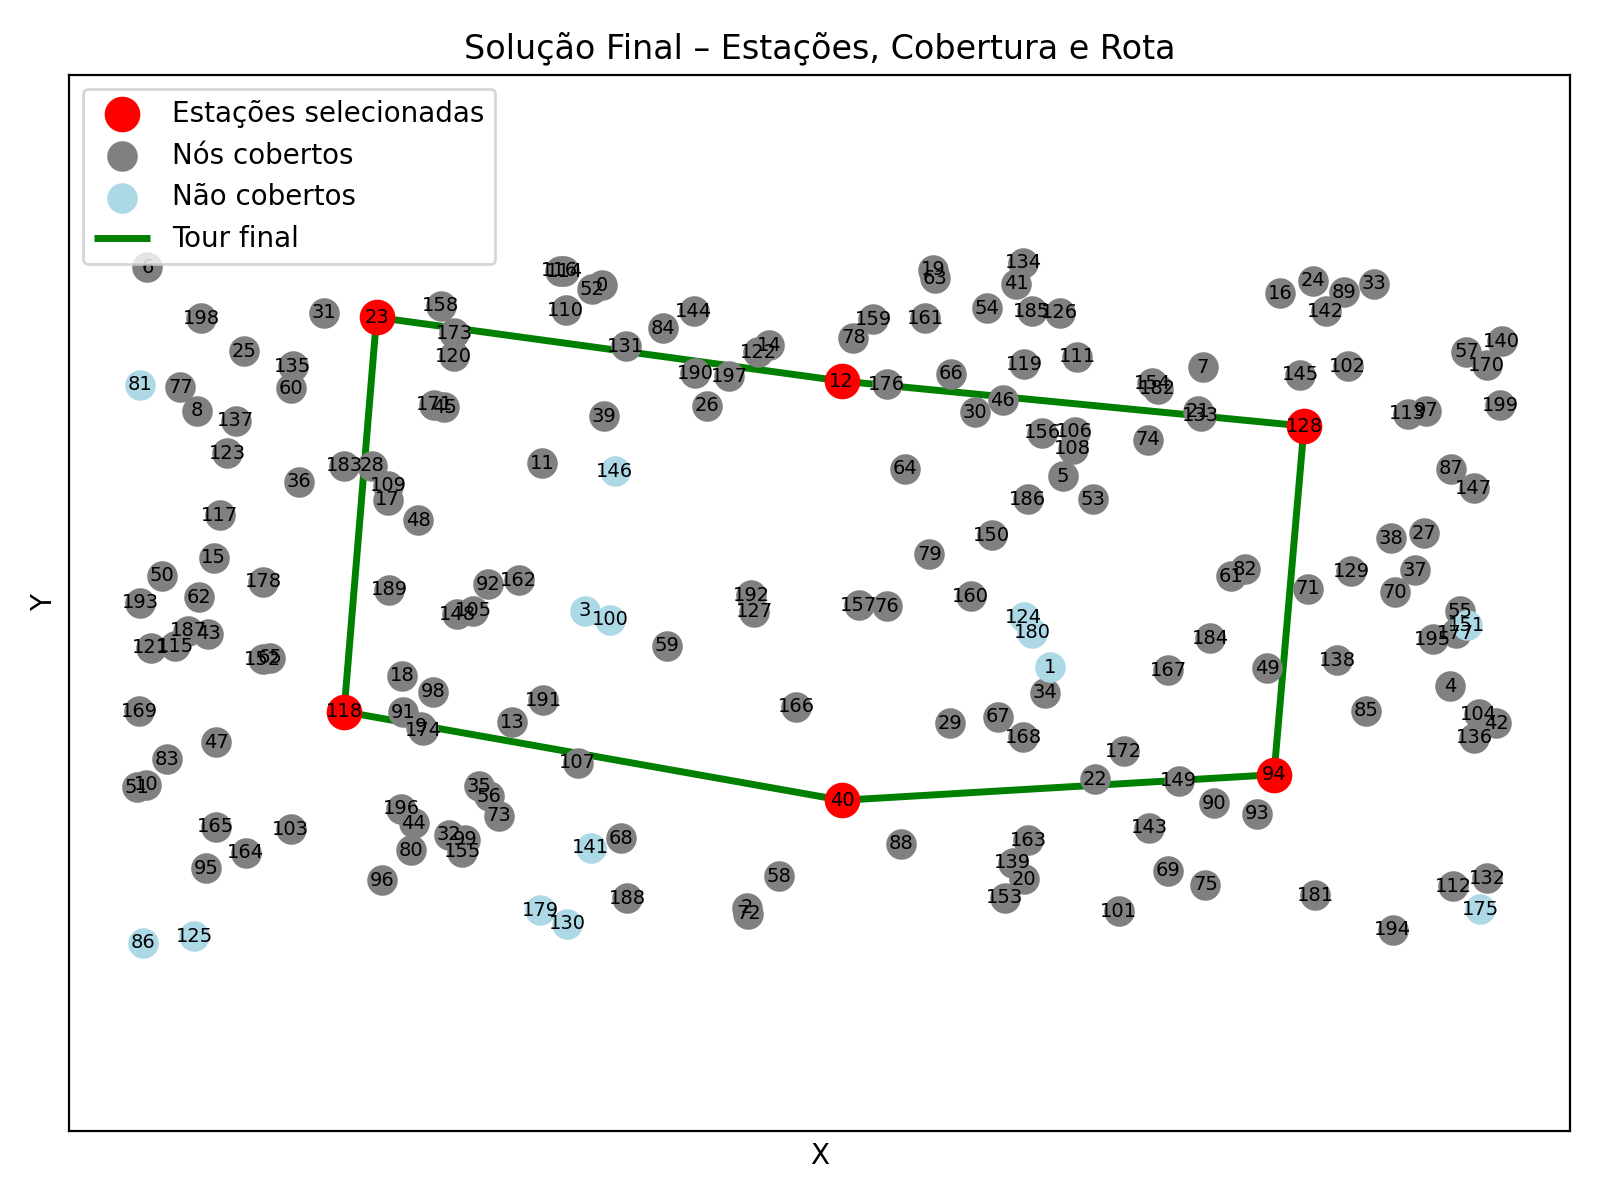
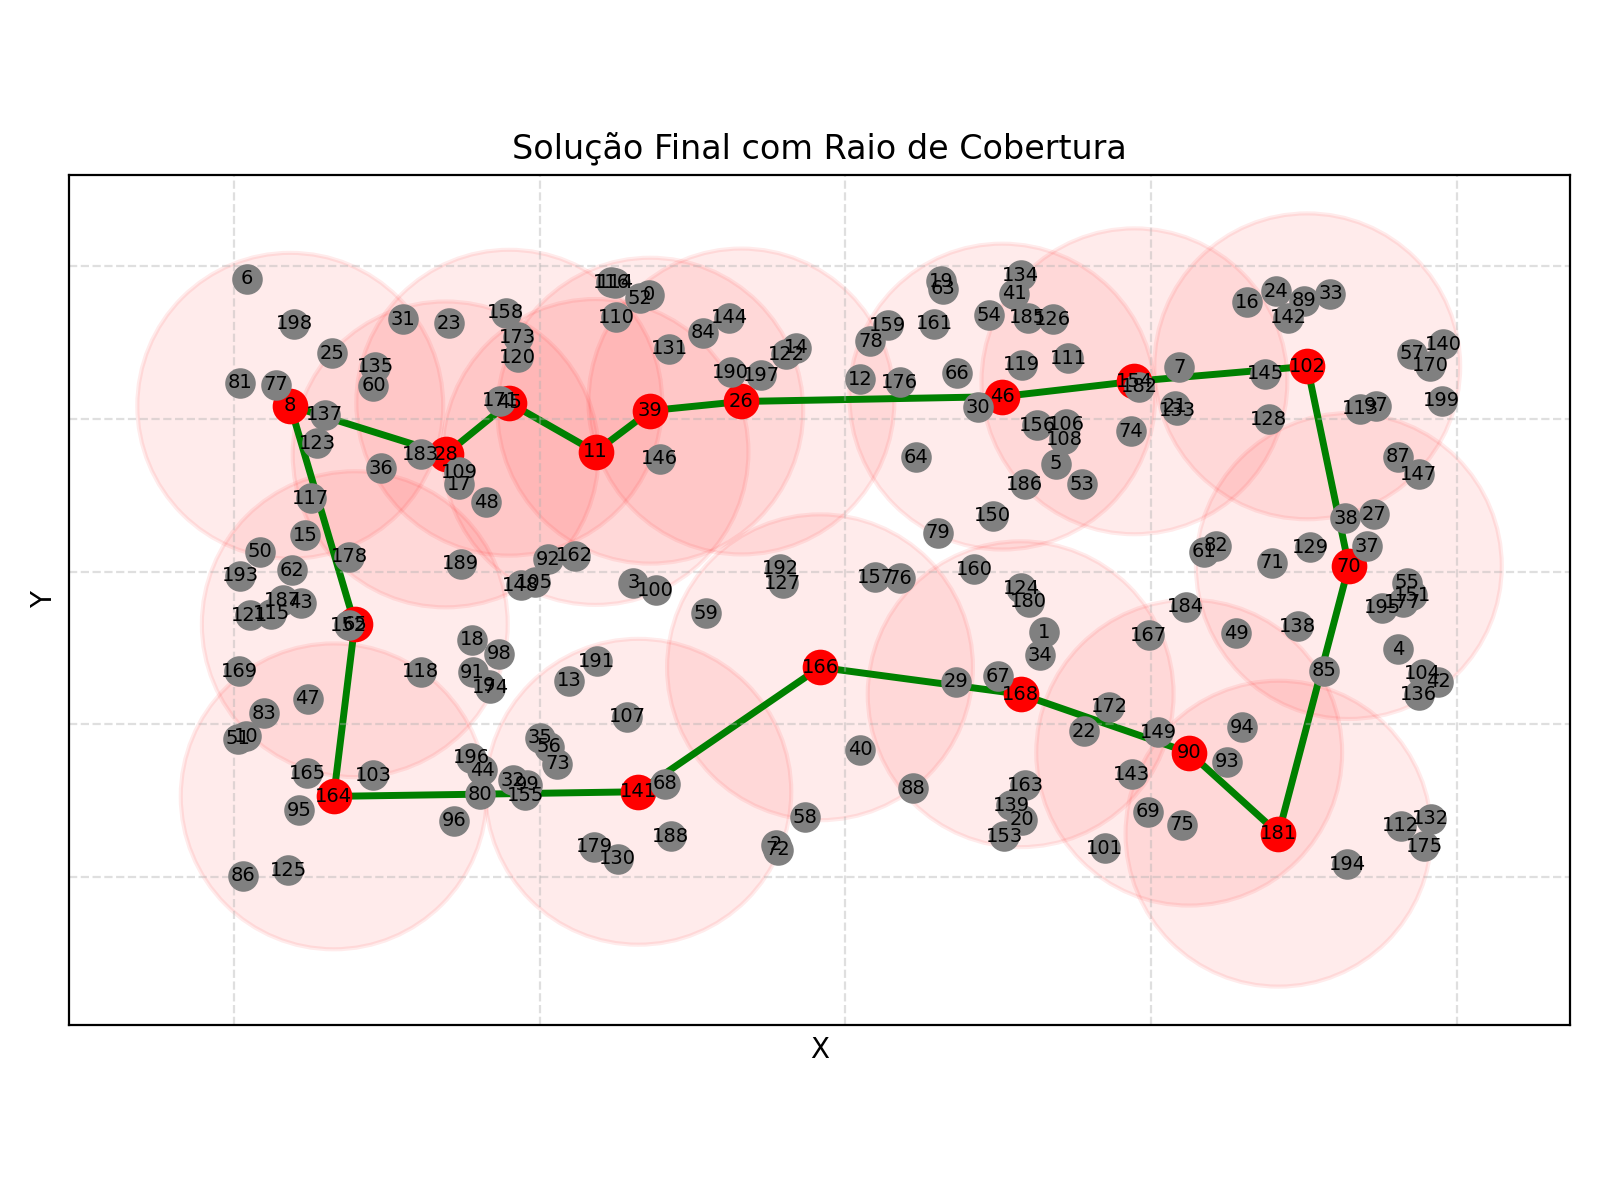
sainda grafica com raios

diff --git a/main.py b/main.py
@@ -3,6 +3,7 @@ import networkx as nx
 import matplotlib.pyplot as plt
 import os
 import itertools
+from matplotlib.patches import Circle
 os.makedirs("frames", exist_ok=True)
 
 def draw_iteration(graph, picked, covered, tour_edges, iteration):
@@ -217,38 +218,73 @@ def tsp_nearest_insertion_optimized(graph, nodes):
 
 # ---------- construção inicial -----------------------------------------
 def initialize_solution(graph, n, p, radius):
-    covered, solution = set(), []
+    covered = set()
+    solution = []
+
+    print("\n=== INICIALIZAÇÃO GULOSA ===")
+
     for it in range(p):
-        best_node, best_cov = None, 0
+        t0 = time.time()
+
+        best_node = None
+        best_gain = -1
+
         for v in range(n):
             if v in solution:
                 continue
-            cov = {w for w in graph.neighbors(v)
-                   if graph[v][w]["weight"] <= radius and w not in covered}
-            if len(cov) > best_cov:
-                best_node, best_cov = v, len(cov)
-        if best_node is None:                   # ninguém aumenta cobertura
+
+            gain = sum(
+                1 for w in graph.neighbors(v)
+                if graph[v][w]["weight"] <= radius and w not in covered
+            )
+
+            if gain > best_gain:
+                best_node = v
+                best_gain = gain
+
+        if best_node is None:
+            print("Nenhum nó aumentou cobertura. Selecionando arbitrário.")
             resto = [v for v in range(n) if v not in solution]
             if not resto:
                 break
             best_node = resto[0]
-        # print(f"\nIteração {it+1}")
-        # print(f"  escolhido: {best_node}")          # +1 para id humano
+            best_gain = 0
+
         covered_before = len(covered)
+
         solution.append(best_node)
-        covered.update({w for w in graph.neighbors(best_node)
-                        if graph[best_node][w]["weight"] <= radius})
+
+        covered.update(
+            w for w in graph.neighbors(best_node)
+            if graph[best_node][w]["weight"] <= radius
+        )
         covered.add(best_node)
-        # print(f"  nova cobertura (ganho): {len(covered) - covered_before}")
-        # print(f"  cobertos depois: {sorted(w for w in covered)}")
-        # ----- gerar tour parcial p/ desenho -------
+
+        covered_after = len(covered)
+
+        print(f"\nIteração {it+1}")
+        print(f"Escolhido: {best_node}")
+        print(f"Ganho marginal: {best_gain}")
+        print(f"Cobertura total: {covered_after}")
+        print(f"Tamanho solução: {len(solution)}")
+
+        # ---- usar heurística TSP, NÃO exato ----
         tour_edges = []
         if len(solution) > 1:
-            tour, _ = tsp_exact(graph, solution)
-            tour_edges = [(tour[i], tour[i+1]) for i in range(len(tour)-1)]
+            tour, _ = tsp_nearest_insertion_optimized(graph, solution)
+            tour_edges = [
+                (tour[i], tour[i+1])
+                for i in range(len(tour)-1)
+            ]
 
-        # ----- desenhar / salvar figura ------------
         draw_iteration(graph, solution, covered, tour_edges, it+1)
+
+        print(f"Tempo iteração: {time.time() - t0:.3f}s")
+
+    print("\n=== FIM DA INICIALIZAÇÃO ===")
+    print(f"Solução final: {solution}")
+    print(f"Cobertura final: {len(covered)}")
+
     return solution
 
 
@@ -447,7 +483,7 @@ def local_search_2swap(graph, sol, cover_sets):
                         best_tour = tour
                         best_dist = dist
                         improved = True
-                        print(f"  -> 2-swap melhorou: dist={best_dist:.1f} cov={best_cov} ")
+                        # print(f"  -> 2-swap melhorou: dist={best_dist:.1f} cov={best_cov} ")
                         break
 
                 if improved:
@@ -542,7 +578,7 @@ def load_params(json_file):
 
 
 def plot_final_solution(graph, best_sol, best_tour, radius):
-    """Plota o resultado final da solução no plano cartesiano real."""
+    """Plota solução final com círculos de cobertura reais."""
 
     pos = {node: graph.nodes[node]["pos"] for node in graph.nodes}
 
@@ -552,61 +588,91 @@ def plot_final_solution(graph, best_sol, best_tour, radius):
         covered.update({w for w in graph.neighbors(v)
                         if graph[v][w]["weight"] <= radius})
 
-    # nós não cobertos
     not_covered = [v for v in graph.nodes if v not in covered]
     covered_not_selected = [v for v in covered if v not in best_sol]
 
-    plt.figure(figsize=(8, 6))
+    fig, ax = plt.subplots(figsize=(8, 6))
 
-    # 1. estações selecionadas (vermelho)
+    # -------------------------
+    # DESENHAR CÍRCULOS DE COBERTURA
+    # -------------------------
+    for v in best_sol:
+        x, y = pos[v]
+        circle = Circle(
+            (x, y),
+            radius,
+            edgecolor='red',
+            facecolor='red',
+            alpha=0.08,
+            linewidth=1.5
+        )
+        ax.add_patch(circle)
+
+    # -------------------------
+    # nós
+    # -------------------------
     nx.draw_networkx_nodes(
         graph, pos,
         nodelist=best_sol,
         node_color="red",
         node_size=140,
-        label="Estações selecionadas"
+        label="Depósitos",
+        ax=ax
     )
 
-    # 2. cobertos mas não selecionados (cinza)
     nx.draw_networkx_nodes(
         graph, pos,
         nodelist=covered_not_selected,
         node_color="gray",
         node_size=100,
-        label="Nós cobertos"
+        label="Cobertos",
+        ax=ax
     )
 
-    # 3. não cobertos (azul claro)
     nx.draw_networkx_nodes(
         graph, pos,
         nodelist=not_covered,
         node_color="lightblue",
         node_size=100,
-        label="Não cobertos"
+        label="Não cobertos",
+        ax=ax
     )
 
-    # 4. rota final (arestas verdes)
+    # -------------------------
+    # rota
+    # -------------------------
     tour_edges = [(best_tour[i], best_tour[i + 1]) for i in range(len(best_tour) - 1)]
-    tour_edges.append((best_tour[-1], best_tour[0]))  # fechar ciclo
+    tour_edges.append((best_tour[-1], best_tour[0]))
 
     nx.draw_networkx_edges(
         graph, pos,
         edgelist=tour_edges,
         width=2.5,
         edge_color="green",
-        label="Tour final"
+        ax=ax
     )
 
-    # labels dos nós
-    nx.draw_networkx_labels(graph, pos, font_size=7)
+    # labels
+    nx.draw_networkx_labels(graph, pos, font_size=7, ax=ax)
 
-    plt.title("Solução Final – Estações, Cobertura e Rota")
-    plt.xlabel("X")
-    plt.ylabel("Y")
-    plt.axis("equal")
+    # -------------------------
+    # escala real
+    # -------------------------
+    xs = [pos[v][0] for v in graph.nodes]
+    ys = [pos[v][1] for v in graph.nodes]
+
+    ax.autoscale()
+    ax.set_aspect("equal", adjustable="box")
+
+    ax.set_xlabel("X")
+    ax.set_ylabel("Y")
+    ax.grid(True, linestyle="--", alpha=0.4)
+
+    ax.set_aspect("equal")
+
+    ax.set_title("Solução Final com Raio de Cobertura")
+
     plt.tight_layout()
-    plt.legend(loc="upper left")
-
     plt.savefig("resultado_final.png", dpi=200)
     plt.show()
 
@@ -623,9 +689,11 @@ def run_instance(instance_file, p, radius, max_iter, plot=True):
     g.add_weighted_edges_from(edges)
     
     cover_sets = build_cover_sets(g, radius)
+    print("Construiu cover sets")
 
     # ----- Solução inicial (gulosa) -----
     sol = initialize_solution(g, n, p, radius)
+    print("Solução inicial construída")
 
     init_tour, init_dist = tsp_nearest_insertion_optimized(g, sol)
     init_cov = calculate_coverage(g, sol, radius)
@@ -673,9 +741,9 @@ def run_instance(instance_file, p, radius, max_iter, plot=True):
 
                 time_best_found = time.time() - start
                 iter_best_found = it
-                print(f"  -> Nova melhor solução! dist={best_dist:.1f} "
-                      f"cov={best_cov} estações={best_sol} "
-                      f"(encontrada na vizinhança {which_neigh})")
+                # print(f"  -> Nova melhor solução! dist={best_dist:.1f} "
+                #       f"cov={best_cov} estações={best_sol} "
+                #       f"(encontrada na vizinhança {which_neigh})")
 
             else:
                 k += 1

diff --git a/run_instance_without_alpha.py b/run_instance_without_alpha.py
@@ -21,7 +21,7 @@ INSTANCES = [
 
 p_values = [4, 6, 8]
 radius_values = [600, 700, 800]
-max_iterations = 150
+max_iterations = 100
 
 
 # ==========================================================
@@ -71,7 +71,7 @@ if __name__ == "__main__":
 
         # salva CSV da instância
         inst_name = os.path.splitext(instance)[0]
-        output_csv = f"{inst_name}_vns_2wap_2opt.csv"
+        output_csv = f"{inst_name}_vns_vnd_1swap_and_2swap.csv"
 
         df = pd.DataFrame(results)
         df.to_csv(output_csv, index=False)
